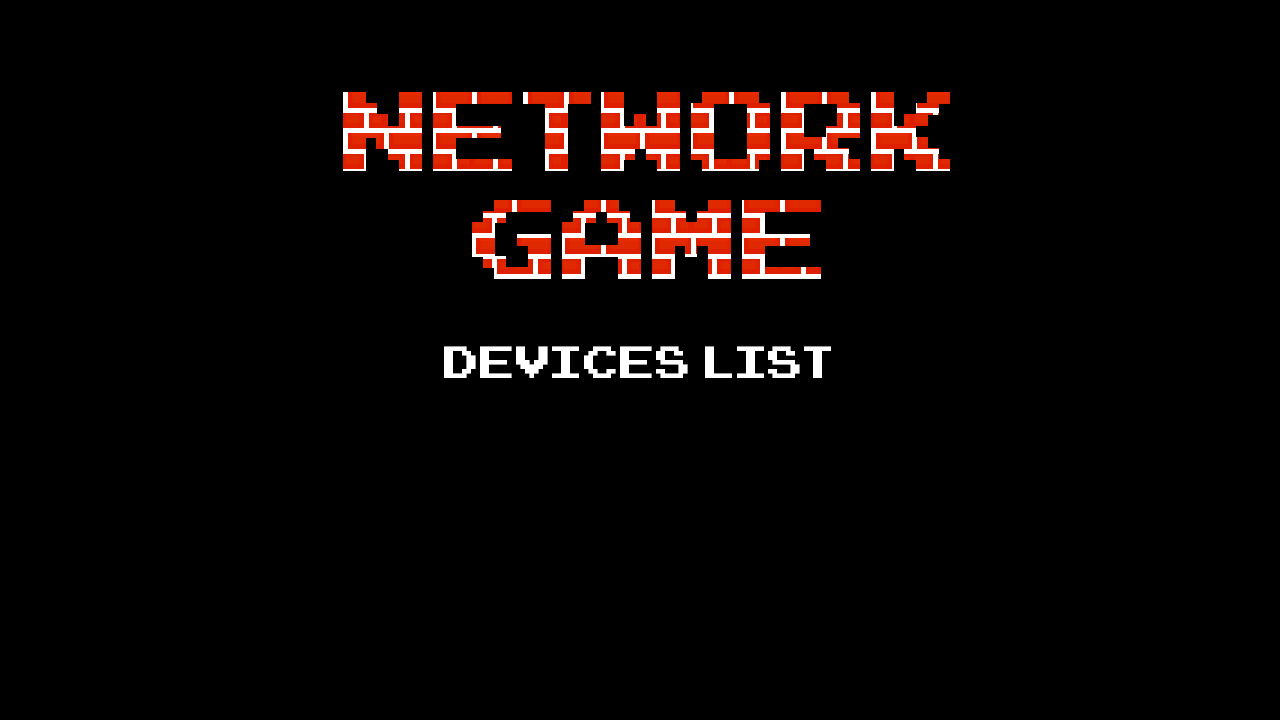
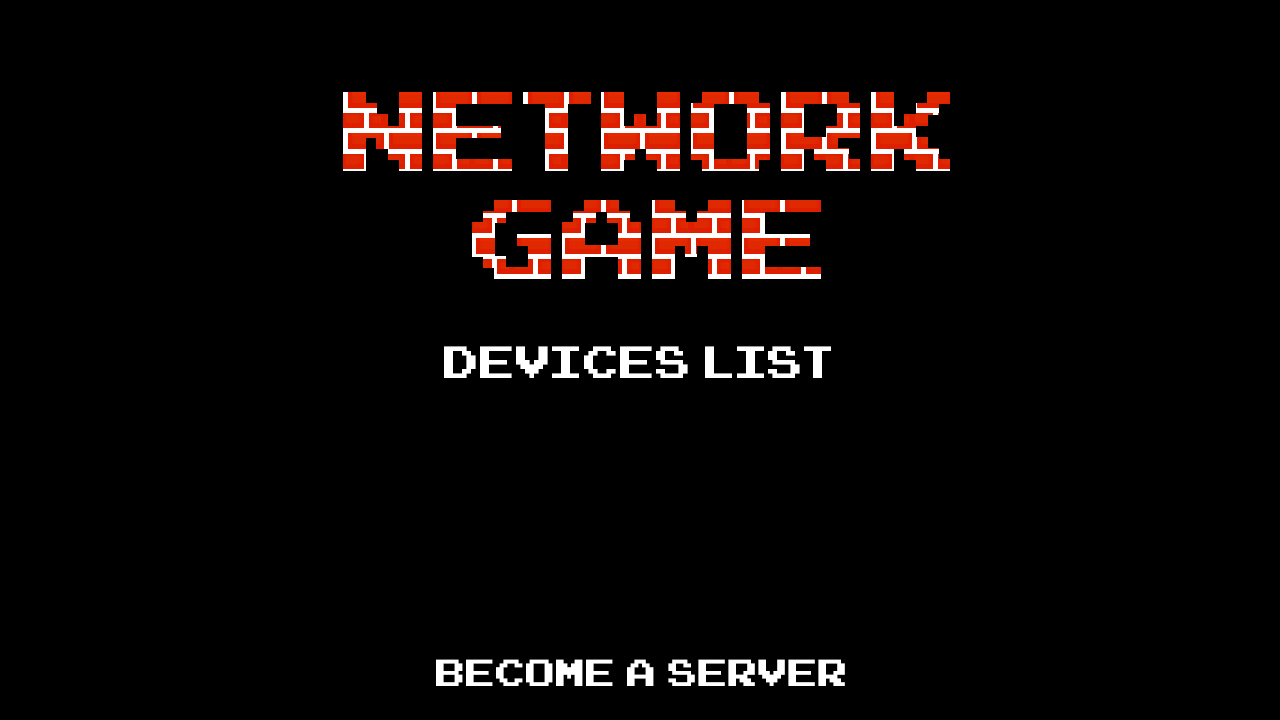
Add ability to become a server

Changed region(s): [[0.3438, 0.9167, 0.6562, 0.9778]]

diff --git a/core/src/com/encamy/battlecity/screens/NetworkScreen.java b/core/src/com/encamy/battlecity/screens/NetworkScreen.java
@@ -7,9 +7,12 @@ import com.badlogic.gdx.Screen;
 import com.badlogic.gdx.graphics.GL20;
 import com.badlogic.gdx.graphics.OrthographicCamera;
 import com.badlogic.gdx.graphics.Texture;
+import com.badlogic.gdx.graphics.g2d.Animation;
 import com.badlogic.gdx.graphics.g2d.BitmapFont;
 import com.badlogic.gdx.graphics.g2d.GlyphLayout;
+import com.badlogic.gdx.graphics.g2d.Sprite;
 import com.badlogic.gdx.graphics.g2d.SpriteBatch;
+import com.badlogic.gdx.graphics.g2d.TextureAtlas;
 import com.encamy.battlecity.Settings;
 import com.encamy.battlecity.network.AndroidInterface;
 import com.encamy.battlecity.network.NetworkDevice;
@@ -34,6 +37,10 @@ public class NetworkScreen implements Screen, InputProcessor, Settings.OnDeviceF
     private GlyphLayout m_glyphLayout;
     private float m_maxDeviceNameLength = 0;
     private AndroidInterface m_androidInterface;
+    private boolean m_isServer = false;
+    private Animation m_waitingAnimation;
+    private Sprite m_waiting;
+    private float m_animationDuration = 0.0f;
 
     public NetworkScreen(Game game, AndroidInterface androidInterface)
     {
@@ -44,6 +51,18 @@ public class NetworkScreen implements Screen, InputProcessor, Settings.OnDeviceF
         m_font.getData().setScale(0.75f);
         m_glyphLayout = new GlyphLayout();
         m_androidInterface = androidInterface;
+
+        m_waitingAnimation = new Animation(Settings.ANIMATION_FRAME_DURATION * 0.5f,
+            new TextureAtlas.AtlasRegion(new Texture("network_waiting_0.jpg"), 0, 0, 48, 16),
+            new TextureAtlas.AtlasRegion(new Texture("network_waiting_1.jpg"), 0, 0, 48, 16),
+            new TextureAtlas.AtlasRegion(new Texture("network_waiting_2.jpg"), 0, 0, 48, 16),
+            new TextureAtlas.AtlasRegion(new Texture("network_waiting_3.jpg"), 0, 0, 48, 16),
+            new TextureAtlas.AtlasRegion(new Texture("network_waiting_4.jpg"), 0, 0, 48, 16),
+            new TextureAtlas.AtlasRegion(new Texture("network_waiting_5.jpg"), 0, 0, 48, 16)
+            );
+        m_waitingAnimation.setPlayMode(Animation.PlayMode.LOOP);
+
+        m_waiting = new Sprite((TextureAtlas.AtlasRegion)m_waitingAnimation.getKeyFrame(m_animationDuration));
     }
 
     @Override
@@ -69,7 +88,20 @@ public class NetworkScreen implements Screen, InputProcessor, Settings.OnDeviceF
 
         m_spriteBatch.begin();
         m_spriteBatch.draw(background, 0, 0);
-        drawDevices(m_spriteBatch);
+
+        if (!m_isServer)
+        {
+            drawDevices(m_spriteBatch);
+        }
+        else
+        {
+            m_animationDuration += delta;
+            m_waiting.setRegion((TextureAtlas.AtlasRegion)m_waitingAnimation.getKeyFrame(m_animationDuration));
+            m_waiting.draw(m_spriteBatch);
+            m_waiting.setX(0.76f * Settings.SCREEN_WIDTH);
+            m_waiting.setY(0.48f * Settings.SCREEN_HEIGHT);
+        }
+
         m_spriteBatch.end();
     }
 
@@ -102,6 +134,13 @@ public class NetworkScreen implements Screen, InputProcessor, Settings.OnDeviceF
                 m_maxDeviceNameLength = m_glyphLayout.width;
             }
         }
+    }
+
+    private void becomeServer()
+    {
+        background = new Texture("network_background_waiting.jpg");
+        m_isServer = true;
+        m_networkManager.setServer(true);
     }
 
     @Override
@@ -179,9 +218,11 @@ public class NetworkScreen implements Screen, InputProcessor, Settings.OnDeviceF
         {
             index = 3;
         }
-        else if (height - screenY > 0.055f / height)
+        else
         {
-            index = 4;
+            Gdx.app.log("TRACE", "Becoming a server");
+            becomeServer();
+            return true;
         }
 
         if (m_devices.size() < index + 1)
@@ -230,25 +271,50 @@ public class NetworkScreen implements Screen, InputProcessor, Settings.OnDeviceF
     @Override
     public void OnDeviceFound(NetworkDevice device)
     {
-        if (!have(m_devices, device))
+        _Placeholder clear = new _Placeholder(false);
+        if (!have(m_devices, device, clear))
         {
+            if (clear.value)
+            {
+                m_devices.clear();
+            }
+            
             m_devices.add(device);
             Gdx.app.log("INFO", "Found network device " + device.Host + " " + device.Address + ":" + device.Port + " " + ((device.IsServer)?"Server":"Client"));
 
             getLongestDeviceName(m_devices);
         }
+
+        Gdx.app.log("TRACE", "shouldBeChanged = " + clear.value);
     }
 
-    private boolean have(ArrayList<NetworkDevice> devices, NetworkDevice device)
+    private boolean have(ArrayList<NetworkDevice> devices, NetworkDevice device, _Placeholder clear)
     {
         for (NetworkDevice currentDevice : devices)
         {
-            if (currentDevice.Address.equals(device.Address) && currentDevice.Port.equals(device.Port))
+            if (currentDevice.Address.equals(device.Address) &&
+                currentDevice.Port.equals(device.Port))
+            {
+                clear.value = true;
+            }
+
+            if (currentDevice.Address.equals(device.Address) &&
+                currentDevice.Port.equals(device.Port) &&
+                currentDevice.IsServer == device.IsServer)
             {
                 return true;
             }
         }
 
         return false;
+    }
+
+    private class _Placeholder
+    {
+        boolean value;
+        _Placeholder(boolean value)
+        {
+            this.value = value;
+        }
     }
 }

diff --git a/core/src/com/encamy/battlecity/network/BroadcastAnnouncer.java b/core/src/com/encamy/battlecity/network/BroadcastAnnouncer.java
@@ -18,12 +18,14 @@ public class BroadcastAnnouncer extends Thread
     private AndroidInterface m_androidAPI;
     private DatagramSocket m_socket;
     private Settings.OnDeviceFoundCallback m_onDeviceFound;
+    private boolean m_isServer;
 
     public BroadcastAnnouncer(AndroidInterface androidInterface, Settings.OnDeviceFoundCallback callback)
     {
         m_androidAPI = androidInterface;
         m_stopThread = false;
         m_onDeviceFound = callback;
+        m_isServer = false;
     }
 
     @Override
@@ -135,6 +137,11 @@ public class BroadcastAnnouncer extends Thread
 
         String message = "BattleCity. Address = " + utils.getIPAddress(true) + ":" + Settings.GAME_PORT + "\r\nHost name = " + utils.getHostName(m_androidAPI);
 
+        if (m_isServer)
+        {
+            message += "\r\nServer";
+        }
+
         byte[] buffer = message.getBytes();
 
         DatagramPacket packet = null;
@@ -156,5 +163,10 @@ public class BroadcastAnnouncer extends Thread
         {
             e.printStackTrace();
         }
+    }
+
+    public void setServer(boolean isServer)
+    {
+        m_isServer = isServer;
     }
 }

diff --git a/core/src/com/encamy/battlecity/network/NetworkManager.java b/core/src/com/encamy/battlecity/network/NetworkManager.java
@@ -16,4 +16,9 @@ public class NetworkManager
     {
         m_broadcastAnnouncer.stopAnnouncement();
     }
+
+    public void setServer(boolean isServer)
+    {
+        m_broadcastAnnouncer.setServer(isServer);
+    }
 }
